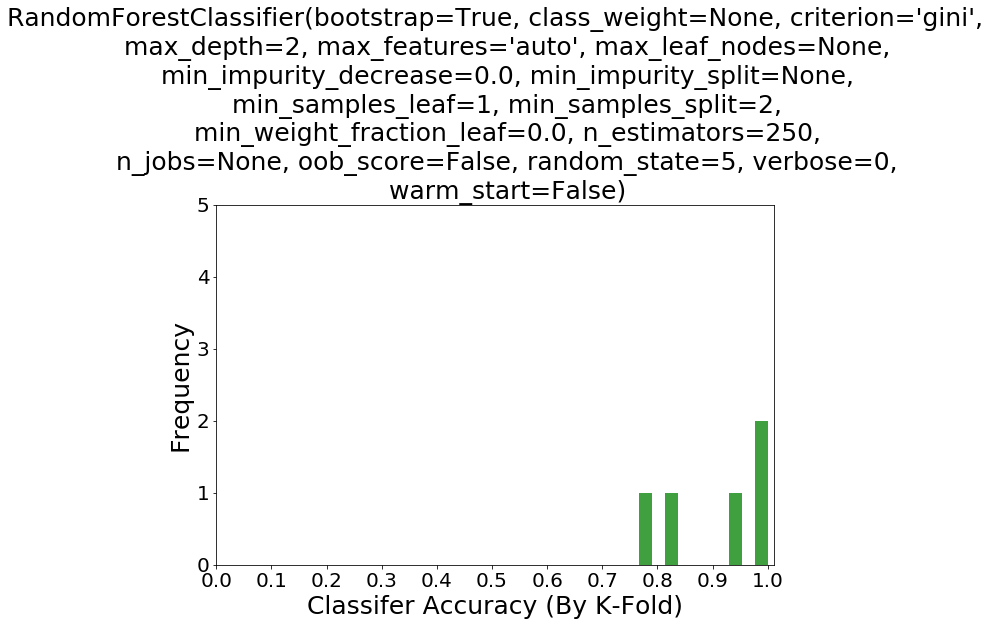
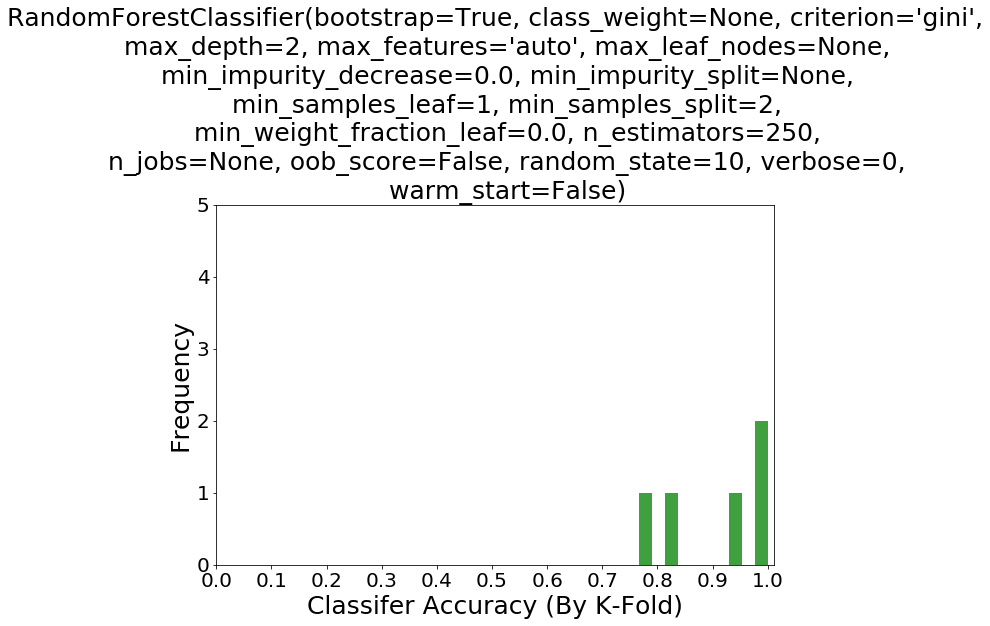
Changed RandomForestClassifier to use the same random state.

Changed region(s): [[0.0909, 0.2428, 0.9091, 0.3035]]

diff --git a/Assignment1/DeathToGridSearch-commented.py b/Assignment1/DeathToGridSearch-commented.py
@@ -170,8 +170,8 @@ def createPlots(accuracyDict):
 
 clfs = [];
 clfs.append({RandomForestClassifier: {'n_estimators': 200, 'max_depth': 3, 'random_state': 10}})
-clfs.append({RandomForestClassifier: {'n_estimators': 250, 'max_depth': 2, 'random_state': 5}})
-clfs.append({RandomForestClassifier: {'n_estimators': 300, 'max_depth': 1, 'random_state': 7}})
+clfs.append({RandomForestClassifier: {'n_estimators': 250, 'max_depth': 2, 'random_state': 10}})
+clfs.append({RandomForestClassifier: {'n_estimators': 300, 'max_depth': 1, 'random_state': 10}})
 clfs.append({LogisticRegression: {'max_iter': 150, 'n_jobs': 2, 'random_state': 12}})
 clfs.append({LogisticRegression: {'max_iter': 300, 'n_jobs': 2, 'random_state': 12}})
 allResults = runAllClfs(clfs, data)
